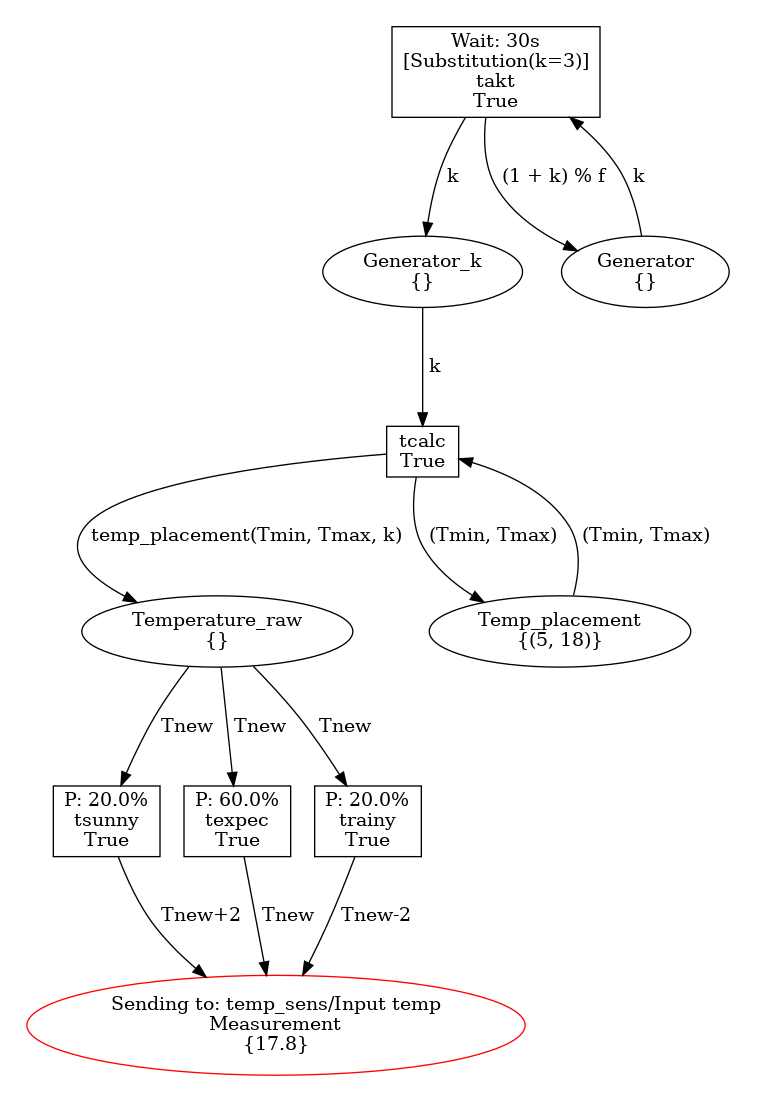
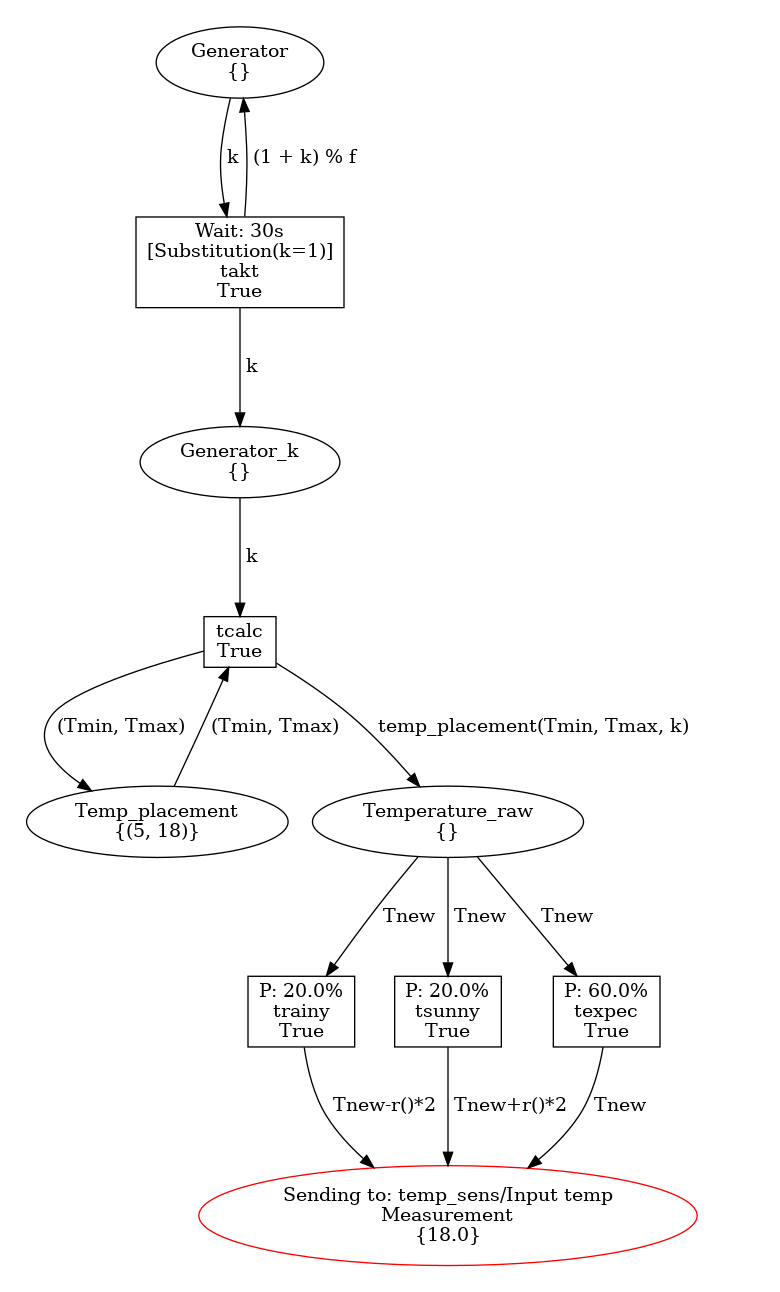
More formatiing, temperature generator refactor

diff --git a/text/projekt-01-kapitoly-chapters.tex b/text/projekt-01-kapitoly-chapters.tex
@@ -89,21 +89,21 @@ Graf $HLPN$ ma následující vlastnosti:
   \item $Typy\:mist$ Každé místo musí mít přiraženy jeden typ. Množina typu nesmí byt prázdna.
   \item $Znackovani\:mist$: je kolekce prvku, které musejí odpovídat typu místa, ve kterém se nacházejí. Prvky se jmenuji $tokeny$ a můžou se opakovat.
   \item $Sipkove\:annotaci$: kazda šipka je anotovaná výrazem se sestavujícím z konstant, proměnách ($x, y$) nebo funkci($f(x)$). Kazda proměna je typovaná, a výrazy se provádějí přiražením hodnot ke každé ze proměnách. Vyhodnoceni výrazu produkuje kolekci prvku převzatých ze vstupního místa. Kolekce se muže opakovat.
-  \item $Podminky\:pro\:přechod$: jsou booleové výrazy ve tvaru $x < y$, které jsou zapsané v anotaci tranzite.
-  \item $Deklaraci$: Vytvářejí definici typu míst, funkci a promenych.
+  \item $Podminky\:pro\:přechod$: jsou booleově výrazy ve tvaru $x < y$, které jsou zapsané v anotaci tranzite.
+  \item $Deklaraci$: Vytvářejí definici typu míst, funkci a proměnách.
 \end{itemize}
 
 \subsection{Aplikace Petriho sítí}
 
 \subsection{Značkovaná Petriho sít}
-Rozsah míst kdě se dá applikovat Petriho sítě je velmí široký. Jako modelovací prostředek můžou sloužit například pro reprezentací vzorů interakce a vznikájicich konfliktů mezí člověkem a autopilotém letadla, jak je popsané v nasledujícím \href{https://www-tandfonline-com.ezproxy.lib.vutbr.cz/doi/full/10.1080/00140139.2013.877597}{článku}.
+Rozsah míst kdě se dá aplikovat Petriho sítě je velmi široký. Jako modelovací prostředek můžou sloužit například pro reprezentací vzorů interakce a vznikájicich konfliktů mezí člověkem a autopilotem letadla, jak je popsané v následujícím \href{https://www-tandfonline-com.ezproxy.lib.vutbr.cz/doi/full/10.1080/00140139.2013.877597}{článku}.
 
-Příkladem použiti značkované petriho sítí muže taky sloužit implementace \uv{Dining philosophers problem} \cite[p.65--67]{PNandMoS}, coz je problém poprvé představeny profesorem Dijkstrou v roce 1965.
+Příkladem použiti značkované petriho sítí muže taky sloužit implementace \uv{Dining philosophers problem} \cite[p.65--67]{PNandMoS}, což je problém poprvé představeny profesorem Dijkstrou v roce 1965.
 Je to obecné známy problém paralelismu, který názorné zobrazuje dva případy chyb vznikajících pri paralelním vypočtu - vyhladověni a uváznutí \cite{dining_philosophers}.
 
 \subsection{Vysokoúrovňová Petriho sit}
 
-V našem případě vysokoúrovňová Petriho síť modeluje a nasledně simuluje chování systému topení.
+V našem případě vysokoúrovňová Petriho síť modeluje a následně simuluje chování systému topení.
 
 \subsection{Distribuovaný system}
 \label{subsec:distr_system}
@@ -111,7 +111,7 @@ V našem případě vysokoúrovňová Petriho síť modeluje a nasledně simuluj
 \paragraph{Definice}
 
 Definice distribuovaného systému zni:
-Distribuovaný system je kolekce na sobe nezavislych pocitatcu, ktery konecny uzivatel vnima jako celek.
+Distribuovaný system je kolekce na sobe nezávislých počítačů, který konečný uživatel vnímá jako celek.
 % http://barbie.uta.edu/~jli/Resources/MapReduce&Hadoop/Distributed%20Systems%20Principles%20and%20Paradigms.pdf
 
 Distribuované systémy musejí používat decentralizované algoritmy, které požaduji následující:
@@ -122,14 +122,15 @@ Distribuované systémy musejí používat decentralizované algoritmy, které p
   \item Neprovádí se synchronizace podle globálních hodin.
 \end{enumerate}
 
-Z definice taky vypliva, ze distribuovany system se obecne sestavuje s vice se opakujicich prvku, ktere funguji nezavisle na sobe a nemaji pristup ke sdilene pameti, neboli kazdy prvek ma svoi vlastni. Sdileni stavu ve pripade distribovaneho systému se provadi pomoci zasilani zprav.
+Z definice taky vyplývá, ze distribuovaný system se obecně sestavuje s více se opakujících prvku, které funguji nezávisle na sobe a nemají přistup ke sdílené paměti, neboli kazdy prvek ma svob vlastni. Sdíleni stavu ve případe distribuovaného systému se provádí pomoci zasílaní zprav.
 
-Tento koncept je velice pouzitelny pro modelovani. Prvky budou reprezentovany Petriho siťěmi, provazane komunikacnimi kanaly. Jelikoz kazda petriho sit je prvek nezavisly na vnejsich podminkach, ale jen na soucasnem stavu mist a přechodu a taky jejich kombinaci, tak se da to prohlasit decentralizovanym algoritmem. Petriho sit si muzeme predstavit jako nezavisly blok, kdyzto pro kommunikaci mezi temito bloky se da pouzit protokol \href{http://docs.oasis-open.org/mqtt/mqtt/v3.1.1/csprd02/mqtt-v3.1.1-csprd02.html}{MQTT}, ktery diky svym vlastnostem dokaze obslouzit neomezene mnozstvi klientu najednou. Pripad implementace tepelneho rizeni(odkaz) nazorne ukazuje pouziti dane myslenky na praktice.
+Tento koncept je velice použitelný pro modelovaní. Prvky budou reprezentovaný Petriho sítěmi, provázané komunikačními kanály. Jelikož kazda petriho sit je prvek nezávislý na vnějších podmínkách, ale jen na současném stavu mist a přechodu a taky jejich kombinaci, tak se da to prohlásit decentralizovaným algoritmem. Petriho sit si můžeme představit jako nezávislý blok, kdežto pro komunikaci mezi těmito bloky se da použit protokol \href{http://docs.oasis-open.org/mqtt/mqtt/v3.1.1/csprd02/mqtt-v3.1.1-csprd02.html}{MQTT}, který díky svým vlastnostem dokaze obsloužit neomezené množství klientu najednou. Případ implementace tepelného řízeni \ref{sec:tepelne-rizeni} názorné ukazuje použiti dane myšlenky na praktice.
+
 \subsection{Simulace}
-\subsection{Diskretni simulace}
+\subsection{Diskrétní simulace}
 Diskrétní simulace je založena ve svém základu na algoritmu známém pod názvem \uv{NextEvent}. Tento algoritmus se řídí nasledujícím pseudokodem:
 \begin{algorithm}
-  \caption{Diskretni simulace}\label{euclid}
+  \caption{Diskrétní simulace}\label{euclid}
   \begin{algorithmic}[1]
   \State $\text{nainicializuj simulaci, cas a planovac udalosti}$
   \While {dokud je naplánovaná událost}
@@ -165,12 +166,12 @@ Simulace v reálném čase upravena pro účely tohoto projektu je založena na 
 \end{algorithmic}
 \end{algorithm}
 
-Tento algoritmus nachází svoje použiti ve mnoha simulačních případech. Běžný příklad použiti - počítačové hry, kde uživatele zaujme herní prostředí, které simuluje reální svět, včetně časové roviny. Simulace v reálném čase se taky používá, kdy obyčejné diskrétní simulace nestačí a cas není zanedbatelný. Uživatel muže chtít sledovat system v průběhu simulace, za účelem zjištěni anomálii v chovaní jeho prvku nebo zvýšeni kvality systému prev jeho nasazením do provozu. Takový přistup se používá ve případě simulace \hyperref[subsec:hwil]{\uv{Hardware-in-the-loop}}.
+Tento algoritmus nachází svoje použiti ve mnoha simulačních případech. Běžný příklad použiti -- počítačové hry, kde uživatele zaujme herní prostředí, které simuluje reální svět, včetně časové roviny. Simulace v reálném čase se taky používá, kdy obyčejné diskrétní simulace nestačí a cas není zanedbatelný. Uživatel muže chtít sledovat system v průběhu simulace, za účelem zjištěni anomálii v chovaní jeho prvku nebo zvýšeni kvality systému prev jeho nasazením do provozu. Takový přistup se používá ve případě simulace \hyperref[subsec:hwil]{\uv{Hardware-in-the-loop}}.
 
 \subsection{Hardware-in-the-loop(HWIL)}
 \label{subsec:hwil}
 
-Hardware-in-the-loop nebo $HIL$ je technika používaná pro vývoj a testovaní řídicích častí komplexních systémů. Díky níž se fyzické častí systému nahrazují jejích simulaci a umožňují plynulé testovaní ještě před nasazením do provozu \cite{hil}.
+Hardware-in-the-loop nebo HIL je technika používaná pro vývoj a testovaní řídicích častí komplexních systémů. Díky níž se fyzické častí systému nahrazují jejích simulaci a umožňují plynulé testovaní ještě před nasazením do provozu \cite{hil}.
 
 \subsection{MQTT protokol}
 \label{subsec:mqtt-proto}
@@ -191,6 +192,16 @@ Broker je server, obsluhující klienty, navazuje spojeni s klientem a provádí
 \label{par:topic}
 
 Kazda zprava posílaná klientem se nepředává primo dalšímu klientovi, ale obsluhuje se brokerem. Zprava musí mit specifikované téma, podle které broker určí, kterým klientům tu zprávu musí přeposlat. Takové téma je obvykle unikátní textový řetězec, který bude následně odebírat jeden či více klientů.
+
+Zvláštní význam má, ve případě MQTT tématu, znak \uv{\#} (U+0023). Téma se obecně skládá z 1 až několika řetězců, které jsou oddělené znakem \uv{/} (U+002F). Pokud takové téma končí značkou \uv{\#}, tak je výsledek totožný z \uv{wildcard} znakem \uv{*} (U+002A) z \href{https://en.wikipedia.org/wiki/Regular_expression}{regulárních výrazů}.
+
+\begin{tabbing}
+ Příklad: \= \\
+ \> \texttt{net1/\#} -- přijímá zprávy na téma \texttt{net1}, \texttt{net1/port1}, \texttt{net1/port1/log} atd.\\
+ \> \texttt{net2/portX} -- přijímá zprávy jenom na téma \texttt{net2/portX}. \\
+\end{tabbing}
+
+Příklady aplikace tohoto pojmu můžete vidět na příkladě \ref{code:remote-in-out}, nebo jiných aplikací \todo{}.
 
 \paragraph{Zpráva}
 \label{par:message}
@@ -228,7 +239,7 @@ Zvláštní vlastnosti \texttt{SNAKES} je možnost implementace vlastních rozš
 
 \subsection{Implementace MQTT}
 \label{subsec:mqtt_impl}
-Pro implementací mqtt klientu v simulatoru byla použitá knihovna \href{https://pypi.org/project/paho-mqtt/}{\texttt{paho-mqtt}}. Tato knihovna obsahuje všechno potřebné pro nastavení komunikačních kanálů mezí porty vzdalených Petriho sítí. Na základě použití této knihovny konečný uživatel může nastavit zvolené místo v Petriho sítí jako vstupní nebo vystupní port. viz \ref{code:remote-in-out}. Jejích vzhled je nasledující:
+Pro implementací mqtt klientu v simulátoru byla použitá knihovna \href{https://pypi.org/project/paho-mqtt/}{\texttt{paho-mqtt}}. Tato knihovna obsahuje všechno potřebné pro nastavení komunikačních kanálů mezí porty vzdálených Petriho sítí. Na základě použití této knihovny konečný uživatel může nastavit zvolené místo v Petriho sítí jako vstupní nebo výstupní port. viz \ref{code:remote-in-out}. Jejích vzhled je následující:
 \begin{figure}[hbt]
   \centering
   \includegraphics[width=0.5\textwidth]{obrazky-figures/port-in.png}
@@ -245,30 +256,30 @@ Pro implementací mqtt klientu v simulatoru byla použitá knihovna \href{https:
 
 Jak si můžete povšimnout, na rozdíl od ostatních míst sítě, vstupní a výstupní porty se označují barvou a dodatečným popisem. Pro vstupní port \ref{port-in} je to \texttt{Listening on: NET/TOPIC} a zelení barva, \texttt{Sending to: NET/TOPIC} pro výstupní \ref{port-out}. Ten, ve své řáde je označen červeně.
 
-Je předem definované, že každá simulační instance odebírá zprávy z tématu \texttt{control}. Je to ekvivalent broadcastové adresy u IP.
+Je předem definované, že každá simulační instance odebírá zprávy z tématu \texttt{control}. Je to ekvivalent broadkastové adresy u IP.
 
-Implementace zevnítř vypadá podobně reprezentací samotných portů. Sít, pří volaní metody \texttt{add\_remote\_input} nastaví týp místa na vstupní, pak pošle zprávu na téma \texttt{control} obsahující dvojicí [jméno sítě, jméno místa], a uloží zprávu do čekací fronty. Pak, když se k brokeru přípojí nějaká simulační instance s požadovanou dvojící síť--místo, tak se to oznamí všem ostatním simulačním instancím. To se zase provede zasilaním zprávy na téma \texttt{control}. Hned po příjetí takové zprávy se port nastaví a bude vykonavat svou čínnost.
+Implementace zevnitř vypadá podobně reprezentací samotných portů. Sít, pří volaní metody \texttt{add\_remote\_input} nastaví týp místa na vstupní, pak pošle zprávu na téma \texttt{control} obsahující dvojicí [jméno sítě, jméno místa], a uloží zprávu do čekací fronty. Pak, když se k brokeru přípojí nějaká simulační instance s požadovanou dvojicí síť--místo, tak se to oznámí všem ostatním simulačním instancím. To se zase provede zasíláním zprávy na téma \texttt{control}. Hned po příjetí takové zprávy se port nastaví a bude vykonávat svou činnost.
 
 \subsubsection{Směřování}
-Na jeden vstupní port může být přípojeno 0 až několík vystupních portů, nebo jinymí slovy vstupní port příjma všechny zprávy na svoje temá.
+Na jeden vstupní port může být přípojeno 0 až několik výstupních portů, nebo jinými slovy vstupní port přijímá všechny zprávy na svoje téma.
 
 \begin{figure}[htb]
   \centering
   \includegraphics[width=0.7\textwidth]{obrazky-figures/Port-routing.pdf}
-  \caption{Úkazka směřovaní zpráv.}
+  \caption{Ukázka směřovaní zpráv.}
   \label{route-viz}
 \end{figure}
 
-Na danem výše obrázku \ref{route-viz} můžete vidět ukázku směřovaní zpráv mezí porty. \texttt{AAA}, \texttt{BBB} a \texttt{CCC} jsou identifikatory Petriho sítí v ramcí jedného brokeru. Ve případě že se dvojice síť--port se vyskituje vícekrát, zprávy se přeposilají všem instancím. To si můžete všimnout na příkladu sítě \texttt{CCC}, která je na obrázku \ref{route-viz} dvakrát.
+Na danem výše obrázku \ref{route-viz} můžete vidět ukázku směřovaní zpráv mezí porty. \texttt{AAA}, \texttt{BBB} a \texttt{CCC} jsou identifikátory Petriho sítí v rámci jedeného brokeru. Ve případě že se dvojice síť--port se vyskytuje vícekrát, zprávy se přeposílají všem instancím. To si můžete všimnout na příkladu sítě \texttt{CCC}, která je na obrázku \ref{route-viz} dvakrát.
 
-Na obrázku jsou 6 vstupních portů a 5 výstupních. Vstupní porty jsou označené zeleně, výstupní červeně. Jak je vidět na příklade dvoujic \texttt{CCC/IN1} a \texttt{CCC/DATA}, dvoující nemusí být unikatní. Počet přípojených výstupních portu k jednému vstupnímu není nějak omezen. Je to dosažene použítím vlastností MQTT klientu popsané v \ref{par:topic}.
+Na obrázku jsou 6 vstupních portů a 5 výstupních. Vstupní porty jsou označené zeleně, výstupní červeně. Jak je vidět na příklade dvojic \texttt{CCC/IN1} a \texttt{CCC/DATA}, dvojicí nemusí být unikátní. Počet přípojených výstupních portu k jedenému vstupnímu není nějak omezen. Je to dosažené použitím vlastností MQTT klientu popsané v \ref{par:topic}.
 
-Na příkladě vstupního portu \texttt{log} můžete vidět že není povinné, aby ten port byl zapojený. Ve případě simulatoru takový port nebude přiřázen do skupíny vstupních portů, dokud se neobjeví nějaka applikace nebo síť, požadující přijetí a odesílaní zpráv na téma, kterou ten port odebírá. Více se o takovém nastavení viz \todo{ADD}
+Na příkladě vstupního portu \texttt{log} můžete vidět že není povinné, aby ten port byl zapojený. Ve případě simulátoru takový port nebude přiřazen do skupiny vstupních portů, dokud se neobjeví nějaká aplikace nebo síť, požadující přijetí a odesílaní zpráv na téma, kterou ten port odebírá. Více se o takovém nastavení viz \todo{ADD}
 
 \subsection{Vlastní protokol komunikace}
-Proto aby simulator měl podporu přídání vzdalených portů, zmíněnych v \ref{subsec:mqtt_impl} vznikla potřeba vymyslet vlastní protokol výměny informací. Ten protokol musí mít seznám zpráv pro takové simulační případy, kdy port musí předat nebo příjmout tokeny, nebo když se objeví instance Petriho síti v nějakém z už existujících či nově vytvořených simulačních úzlu. \todo{návod pro vytvoření takového}.
+Proto aby simulator měl podporu přidání vzdálených portů, zmíněných v \ref{subsec:mqtt_impl} vznikla potřeba vymyslet vlastní protokol výměny informací. Ten protokol musí mít seznám zpráv pro takové simulační případy, kdy port musí předat nebo přijmout tokeny, nebo když se objeví instance Petriho síti v nějakém z už existujících či nově vytvořených simulačních uzlů. \todo{návod pro vytvoření takového}.
 
-Nasledující tabulka \ref{tab:mqtt-msg-types} obsahuje přehled typů zpráv, a jejích formatu pro naplnění:
+Následující tabulka \ref{tab:mqtt-msg-types} obsahuje přehled typů zpráv, a jejích formátu pro naplnění:
 
 \begin{table}[H]
 	\vskip6pt
@@ -288,29 +299,38 @@ Nasledující tabulka \ref{tab:mqtt-msg-types} obsahuje přehled typů zpráv, a
 	\label{tab:mqtt-msg-types}
 \end{table}
 
-\paragraph{Update} Zprávy tohoto typu oznamují instancím simulatoru, jestli se v jejích okolí neobjevila nová Petriho síť, nebo naslouchající aplikace. Ve případě dodaní zprávy typu \uv{Update}, každá síť bude muset aktualizovat seznám svých aktivních portu, a ve případě že nějaký port čeká na nastavení, tak poslát požadavky na pro nově příchozího klienta. Poslední akcí je aktualizace tabulky znamých sití nově příchozího klienta, ve případě že klient není externí aplikace. Pro aplikaci je ten krok vynechan.
+\paragraph{Update} Zprávy tohoto typu oznamují instancím simulátoru, jestli se v jejích okolí neobjevila nová Petriho síť, nebo naslouchající aplikace. Ve případě dodaní zprávy typu \uv{Update}, každá síť bude muset aktualizovat seznám svých aktivních portu, a ve případě že nějaký port čeká na nastavení, tak poslat požadavky na pro nově příchozího klienta. Poslední akcí je aktualizace tabulky známých sítí nově příchozího klienta, ve případě že klient není externí aplikace. Pro aplikaci je ten krok vynechán.
 \todo{priklady}
 
-\paragraph{Request} \label{par:request} Tento týp zpráv nastavuje vstupní a výstupní porty. Parametr \uv{\texttt{R\_ACTION}} může nabývat hodnoty \texttt{set\_input} pro nastavení cíloveho místa \uv{\texttt{TARG\_PLACE}} jako vstupní port pro síť \uv{\texttt{TARG\_NET}}. Parametr \uv{\texttt{SRC\_NET}} a \uv{\texttt{SRC\_PLACE}} není v tom případě potřeba, stačí uvěst rozdelovač.
+\paragraph{Request} \label{par:request} Tento týp zpráv nastavuje vstupní a výstupní porty. Parametr \uv{\texttt{R\_ACTION}} může nabývat hodnoty \texttt{set\_input} pro nastavení cílového místa \uv{\texttt{TARG\_PLACE}} jako vstupní port pro síť \uv{\texttt{TARG\_NET}}. Parametr \uv{\texttt{SRC\_NET}} a \uv{\texttt{SRC\_PLACE}} není v tom případě potřeba, stačí uvést rozdělovač.
 
-Příklad: \texttt{R, set\_input, net1/port1, /}
+\begin{tabbing}
+  Příklad: \= \\
+  \>\texttt{R, set\_input, net1/port1, /}
+\end{tabbing}
 
-Pro nastavení výstupního portu stačí nastavit parametr \uv{\texttt{R\_ACTION}} na \texttt{set\_output} a dodát zdrojové místo a síť nastavením parametrů \uv{\texttt{SRC\_NET}} a \uv{\texttt{SRC\_PLACE}}.
+Pro nastavení výstupního portu stačí nastavit parametr \uv{\texttt{R\_ACTION}} na \texttt{set\_output} a dodat zdrojové místo a síť nastavením parametrů \uv{\texttt{SRC\_NET}} a \uv{\texttt{SRC\_PLACE}}.
 
-Příklad: \texttt{R, set\_output, net1/port1, net2/port2}
+\begin{tabbing}
+  Příklad: \= \\
+  \> \texttt{R, set\_output, net1/port1, net2/port2} \\
+\end{tabbing}
 
-\paragraph{Success} Táto zpráva se odesílá ve případě uspěšného zpracování nějakého požadavku z \ref{par:request}. Parametr \uv{\texttt{REQUEST\_COPY}} musí byt přesnou kopii příchozího požadavku.
+\paragraph{Success} Táto zpráva se odesílá ve případě úspěšného zpracování nějakého požadavku z \ref{par:request}. Parametr \uv{\texttt{REQUEST\_COPY}} musí byt přesnou kopii příchozího požadavku.
 
-Příklad: \texttt{S, R, set\_output, net1/port1, net2/port2}
+\begin{tabbing}
+  Příklad: \= \\
+  \> \texttt{S, R, set\_output, net1/port1, net2/port2} \\
+\end{tabbing}
 
-Příjetí odesílající stránou podtvrzovací zprávy Success, znamená že nastavení bylo uspěšné alespoň v jedném případě, což má za následek nastavení místa s jménem \texttt{port1} sítě \texttt{net1} jako výstupní port do \texttt{net2/port2}.
+Příjetí odesílající stranou potvrzovací zprávy Success, znamená že nastavení bylo úspěšné alespoň v jedněm případě, což má za následek nastavení místa s jménem \texttt{port1} sítě \texttt{net1} jako výstupní port do \texttt{net2/port2}.
 
-\subsection{Implementace pluginů}
+\subsection{Implementace rozšíření}
 \label{sec:plug-impl}
-Tento pododdil popisuje implementaci růyných pluginu pro knihovnu $SNAKES$, které zesnadnuji návrch Petriho sítí a její modelovaní. Každý z níže popsaných pluginu se da  použít v kodu po jejích importu podle tohoto \href{https://www.ibisc.univ-evry.fr/~fpommereau/SNAKES/first-steps-with-snakes.html}{návodu}.
+Tento pododdíl popisuje implementaci různých rozšíření pro knihovnu $SNAKES$, které znesnadňuji navrch Petriho sítí a její modelovaní. Každý z níže popsaných pluginů se da  použít v komu po jejích importu podle tohoto \href{https://www.ibisc.univ-evry.fr/~fpommereau/SNAKES/first-steps-with-snakes.html}{návodu}.
 
 \subsection{Návod pro import rozšíření}
-Vzhledem k odlišnému postupu pří přídání rozšíření do SNAKES, pro import simulačního nástroje a dalších rozšíření ze skupíny, užívatel musí dodřet správné pořadí pri importu knihoven. Konvence probíhá nasledujícím způsobem.
+Vzhledem k odlišnému postupu pří přidání rozšíření do SNAKES, pro import simulačního nástroje a dalších rozšíření ze skupiny, uživatel musí dodrat správné pořadí pri importu knihoven. Konvence probíhá následujícím způsobem.
 
 \begin{python}
   from snakes.nets import *   # Site, mista, prechody... (*\label{code:snakes-all}*) (*\label{code:plugin-setup}*)
@@ -323,15 +343,15 @@ Vzhledem k odlišnému postupu pří přídání rozšíření do SNAKES, pro im
 \end{python}
 
 \begin{enumerate}
-  \item Pridani knihovny snakes a její prvků \ref{code:snakes-all}.
-  \item Import simulační knihovny, která poskytné základ pro pluginy \ref{code:pnsim}.
-  \item Přidaní pluginů podle požadovaných vlastností síte \ref{code:sim-plugins}. Ze skupíny doporučených pluginů stojí za zmínku plugin \href{https://www.ibisc.univ-evry.fr/~fpommereau/SNAKES/API/plugins/gv.html}{\uv{gv}}. Více o jeho použítí v ramcí simulatoru viz.\ref{subsec:mereni-teploty}. Zbýtek je popsán v dalších sekcích \ref{subsec:timed_pl}.
-  \item Pro redefinici a přidání nových metod z rozšíření slouží řádek \ref{code:pl-import}. Od dané chvilí použítí knihovný SNAKES je stejné jako v \href{https://www.ibisc.univ-evry.fr/~fpommereau/SNAKES/first-steps-with-snakes.html}{návodu} a taky \todo{Muj navod}.
+  \item Přidaní knihovny snakes a její prvků \ref{code:snakes-all}.
+  \item Import simulační knihovny, která poskytne základ pro rozšíření \ref{code:pnsim}.
+  \item Přidaní pluginů podle požadovaných vlastností sítě \ref{code:sim-plugins}. Ze skupiny doporučených pluginů stojí za zmínku plugin \href{https://www.ibisc.univ-evry.fr/~fpommereau/SNAKES/API/plugins/gv.html}{\uv{gv}}. Více o jeho použití v rámci simulátoru viz.\ref{subsec:mereni-teploty}. Zbytek je popsán v dalších sekcích \ref{subsec:timed_pl}.
+  \item Pro redefinici a přidání nových metod z rozšíření slouží řádek \ref{code:pl-import}. Od dané chvílí použití knihovny SNAKES je stejné jako v \href{https://www.ibisc.univ-evry.fr/~fpommereau/SNAKES/first-steps-with-snakes.html}{návodu} a taky \todo{Muj navod}.
 \end{enumerate}
 
 \subsubsection{Plugin \texttt{timed\_pl}}
 \label{subsec:timed_pl}
-Toto rozsireni pouziva planovac udalosti pro spolehlive planovani spousteni tranzice do budoucna. Toto rozsireni pouziva jednoduchou logiku pro provedeni přechodu - ve chvili kdy přechod bude spustitelny, tak se zapne casovac a zkonzumuji odpovidajici tokeny ze vstupnich mist. Cekani se neresetuje pridanim dalsich tokenu do vstupnich mist. Ve pripade teto implementace přechod vezme noveprichozi tokeny, ktere se objeví ve vstupních mistech a tudiž zápnou tranzici. Po ukonceni cekani, tokeny budou preneseny do výstupnich mist, s nasledujcimi upravami, ktere můžou nastat podle definice HLPN \ref{sec:hlpn}.
+Toto rozšířeni používá plánovač události pro spolehlivé plánovaní spouštěni tranzite do budoucna. Toto rozšířeni používá jednoduchou logiku pro provedeni přechodu - ve chvíli kdy přechod bude spustitelný, tak se zapne časovač a zkonzumuji odpovídající tokeny ze vstupních mist. Čekaní se neresetuje přidáním dalších tokenů do vstupních mist. Ve případe teto implementace přechod vezme nověpříchozí tokeny, které se objeví ve vstupních místech a tudíž zapnou přechod. Po ukončeni čekaní, tokeny budou přeneseny do výstupních mist, s následujícími úpravami, které můžou nastat podle definice HLPN \ref{sec:hlpn}.
 
 
 \begin{python}
@@ -339,7 +359,7 @@ Toto rozsireni pouziva planovac udalosti pro spolehlive planovani spousteni tran
   pr1=Transition("Timed-transition", timeout=30) (*\label{code:timed-example}*)
 \end{python}
 
-Pro vytvaření takového přechodu stačí zadat parametr \texttt{timeout} do klauzule pro vytvoření přechodu - \texttt{Transition} jak je ukázano na řádku \ref{code:timed-example}. Hodnota \texttt{timeout} se uvádí v sekundách. Výsledný tvár nasledujícího přechodu je na obrázku \ref{timed-transition}. Ukázku použítí ve funkčním příkladě můžete vidět \hyperref[code:timed-temp-example]{dále}.
+Pro vytváření takového přechodu stačí zadat parametr \texttt{timeout} do klauzule pro vytvoření přechodu - \texttt{Transition} jak je ukázano na řádku \ref{code:timed-example}. Hodnota \texttt{timeout} se uvádí v sekundách. Výsledný tvár nasledujícího přechodu je na obrázku \ref{timed-transition}. Ukázku použítí ve funkčním příkladě můžete vidět \hyperref[code:timed-temp-example]{dále}.
 
 \begin{figure}[hbt]
   \centering
@@ -402,10 +422,14 @@ Stejně tak podporuje nastavení vzdalených portů pro předaní tokenů jiným
 
 
 \subsection{Planovac udalosti}
-\url{https://docs.python.org/3/library/heapq.html}
-Planovac udalosti je naimplementovan jako prioritni fronta za vyuziti vestavene knihovny heapq v Pythonu. Api naznacuje ze pro pridani a vyberu prvku se pouzivaji metody $heappush$ a $heappop$. \url{https://docs.python.org/3/library/heapq.html#theory} Priorita v takove fronte se urcuje ciselnou hodnotou, ktera se vklada do fronty. Tato hodnota muze byt prvnim prvkem v seznamu elementu. Druhym parametrem pro urceni priority je poradi, ve kterem prvek byl vlozen. Tato sada pravidel umoznuje vkladat zaznamy, obsahujici cas spusteni jako prvni prvek, a podle toho se zaradi na prisluhujici misto ve fronte. Metoda $heappop$ vybere prvek ze seznamu s nejvyssi prioritou, coz bude element s nejnizsi hodnotou casu.
+\label{subsec:event-planner}
+Plánovač události je naimplementován jako prioritní fronta za využiti vestavěné knihovny \href{https://docs.python.org/3/library/heapq.html}{\texttt{heapq}} v Pythonu. Api naznačuje ze pro přidaní a vyberu prvku se používají metody \texttt{heappush} a \texttt{heappop}. Priorita v takové frontě se určuje číselnou hodnotou, která se vkládá do fronty. Tato hodnota muže byt prvním prvkem v seznamu elementu. Druhým parametrem pro určeni priority je poradí, ve kterém prvek byl vložen. Tato sada pravidel umožňuje vkládat záznamy, obsahující čas spuštěni jako první prvek, a podle toho se zařadí na přisluhující místo ve frontě. Metoda \texttt{heappop} vybere prvek ze seznamu s nejvyšší prioritou, což bude element s nejnižší hodnotou času.
+
+
 \chapter{Aplikace}
+
 \section{Tepelne rizeni}
+\label{sec:tepelne-rizeni}
 Pro demonstraci praci simulatoru bylo rozhodnuto namodelovat dystribovany system modelujici chovani topení, ktey nekteri z vas pravdepodobne pouzivaji u sebe doma. Takovy system se sestavuje z nekolika casti. Zakladnim prvkem je plynovy spotrebic, nebo karma. Ta ohriva vodu a uvadi ji do pohybu po potrubich. Pak kazdy z pokoju ma na starosti tepelené čidlo a rizeni, ktere udrzuje v pokoji nastavenou teplotu podle calendare. Kazdou hodinu se z tabulky teplot vezme aktualni teplota pro soucasnou hodiny a tento pokoj, pak rizeni rozhodne jestli ma zapnout topení nebo ne. Pokud zadny z pokoju v soucasne dobe nema zapnute topení, tak karma se musi vypnout za ucelem setreni plynu. Toto rizeni provadi vestaveny system, nebo je zcela mechanicky. Kazdy z tech prvku bude dale namodelovan Petriho siťěmi. Pro pochopení struktury viz. \ref{boiler-net}.
 
 \begin{figure}[htb]

diff --git a/temp_gen.py b/temp_gen.py
@@ -27,20 +27,21 @@ def terminate(*args):
 def temp_generator(name, low, high, timeout):
     n = PetriNet(name)
 
-    f = 48
-    T = 24*60/f
-    k = 0
+    f = 48 # Frekvence mereni behem dne
+    T = 24*60*60/f # Perioda zmen teploty
+    k = 0 # Citac pro generator
 
-    n.declare('import math')
-    n.declare('import random, time')
+    n.declare('from math import cos, pi')
+    n.declare('import time, random')
     n.declare('random.seed(time.time)')
+    n.declare('from random import random as r')
     n.declare(f'f = {f}')
     n.declare('def temp_placement(Tmin, Tmax, k):'
               '\n\tif k == 0:'
               '\n\t\treturn float(format(Tmax, ".1f"))'
               '\n\telse:'
               '\n\t\treturn float(format('
-              'Tmin + (Tmax-Tmin)*(math.cos(2*math.pi*k/f)/2 + 1/2),'
+              'Tmin + (Tmax-Tmin)*(cos(2*pi*k/f)/2 + 1/2),'
                 '".1f"))')
     temp_pl = Place('Temp_placement', [(low, high)], check=tTuple)
     gen = Place('Generator', [k], check=tInteger)
@@ -75,11 +76,11 @@ def temp_generator(name, low, high, timeout):
     trainy.add_neighbour_transition(tsunny)
 
     trainy.add_input(traw, Variable('Tnew'))
-    trainy.add_output(meas, Expression('Tnew-random.random()*2'))
+    trainy.add_output(meas, Expression('Tnew-r()*2'))
     n.add_transition(trainy)
 
     tsunny.add_input(traw, Variable('Tnew'))
-    tsunny.add_output(meas, Expression('Tnew+random.random()*2'))
+    tsunny.add_output(meas, Expression('Tnew+r()*2'))
     n.add_transition(tsunny)
 
     texpec.add_input(traw, Variable('Tnew'))
